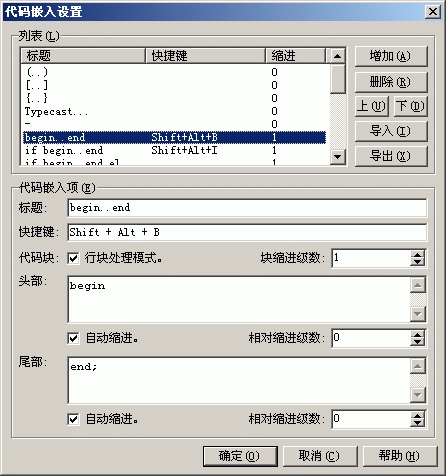
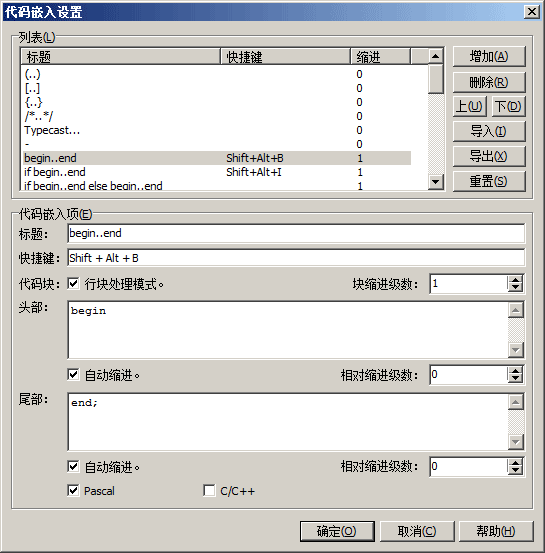
* [Code Wrap] Update Help.

diff --git a/Help/CnWizards_ENU/srcedtenh/srcedtblocktools.htm b/Help/CnWizards_ENU/srcedtenh/srcedtblocktools.htm
@@ -112,6 +112,8 @@ Format Menu</b></p>
 	<p class="text"><b>Import</b>: Import items from data file, can select replace or append mode.</li>
 	<li>
 	<p class="text"><b>Export</b>: Export items to data file.</li>
+	<li>
+	<p class="text"><b>Reset</b>: Reset items to default.</li>
 	</ul>
 </ul>
 <ul>
@@ -128,6 +130,10 @@ Format Menu</b></p>
 	<p class="text"><b>Head</b>: Text to insert to the head of selection. If is line block mode, user can set indent level. Use '|' to set cursor position.</li>
 	<li>
 	<p class="text"><b>Tail</b>: Text to insert to the tail of selection. If is line block mode, user can set indent level. Use '|' to set cursor position.</li>
+	<li>
+	<p class="text"><b>Pascal</b>: This item is for Pascal file.</li>
+	<li>
+	<p class="text"><b>C/C++</b>: This item is for C/C++ file.</li>
 	</ul>
 </ul>
 <ul>
